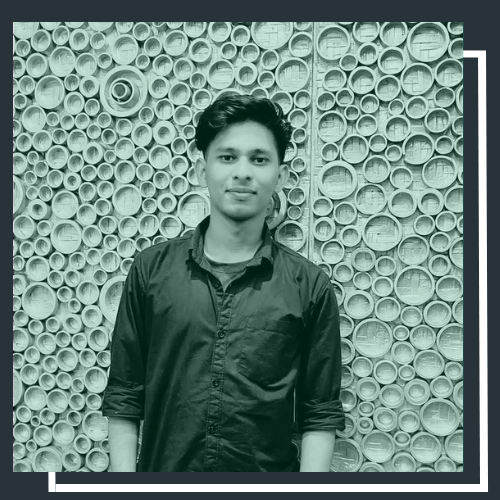
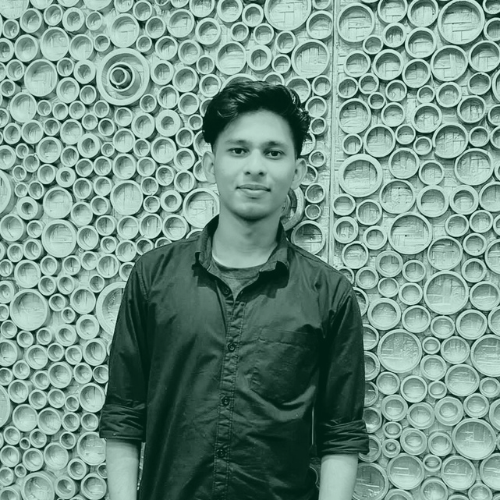
commit 2

diff --git a/home.html b/home.html
@@ -169,7 +169,7 @@
         </div>
       </nav>
       <div class="container my-5 p-5 intro-box fade-element">
-        <div class="container mt-5">
+        <div class="container mt-5 box">
           <p class="primary-text fs-5">Hi, my name is</p>
           <h1 class="name text-white">
             Rocktim Sharma<span class="primary-text fs-1 fw-bold">.</span>
@@ -207,30 +207,50 @@
         <hr class="seperator" />
       </div>
 
-      <div class="container my-2 about-me fade-element">
-        <div class="row">
-          <div class="col-sm-5 my-3">
-            <p class="fs-2 primary-text about-me-1 fw-bold heading">About me</p>
-            <img
+      <div class="container my-5  fade-element" id="about-me-sec">
+        <div class="row px-3">
+          <div class="col-sm-4 my-3">
+            <p class="fs-2 primary-text about-me-1 mb-5 heading">About me</p>
+            <div class="d-flex justify-content-center align-items-center">
+           <!--   <img
               src="./img/p1.png"
-              class="fade-element"
-              width="350"
-              height="350"
+              class="fade-element  mt-3 img"
+          
               alt="..."
-            />
+            />-->
+            <div class="img-box">
+              <div class="content">
+                <img
+                src="./img/p1.png"
+                class="fade-element img"
+            
+                alt="..."
+              />
+              </div>
+              <div class="border-box"></div>
+            </div>
+            
+            </div>
+         
           </div>
-          <div class="col-sm-7 my-3">
-            <p class="fs-2 primary-text about-me-2 fw-bold heading">About me</p>
-            <p class="secondary-text-light para">
-              Hello! My name is Rocktim Sharma. I'm in my first year of studies
-              towards a master's in Computer Application(MCA). My biggest
-              passion is learning about softwares and evolving technologies. I
-              was fascinated with computers , so I decided to study Computer
-              Science in college and I’am continuing in that direction. I enjoy
-              being challenged and engaging with projects that require me to
-              work outside my comfort and knowledge set,learning new languages
-              and development of techniques.
-            </p>
+          <div class="col-sm-8 my-3 ">
+         
+              <div class="d-flex justify-content-center">
+                <p class="fs-2 primary-text text-center about-me-2 fw-bold heading">About me</p>
+              </div>
+             
+              <p class="secondary-text-light para ">
+                Hello! My name is Rocktim Sharma. I'm in my first year of studies
+                towards a master's in Computer Application(MCA). My biggest
+                passion is learning about softwares and evolving technologies. I
+                was fascinated with computers , so I decided to study Computer
+                Science in college and I’am continuing in that direction. I enjoy
+                being challenged and engaging with projects that require me to
+                work outside my comfort and knowledge set,learning new languages
+                and development of techniques.
+              </p>
+       
+          
           </div>
         </div>
       </div>
@@ -238,7 +258,7 @@
         <hr class="seperator" />
       </div>
       <div class="container my-5 fade-element">
-        <div class="row">
+        <div class="row px-3">
           <div class="col-sm-7">
             <p class="fs-2 primary-text heading">Recent Work</p>
             <dl class="row">
@@ -286,14 +306,35 @@
             </dl>
           </div>
 
-          <div class="col-sm-5">
-            <img
-              src="./img/p1.png"
-              class="fade-element"
-              width="350"
-              height="350"
-              alt="..."
-            />
+          <div class="col-sm-5 d-flex justify-content-end align-items-center">
+            <div class="img-box">
+              <div class="content">
+                <div id="carouselExampleAutoplaying" class="carousel slide" data-bs-ride="carousel">
+                  <div class="carousel-inner">
+                    <div class="carousel-item active">
+                      <img src="./img/s1.png" class="d-block w-100" alt="...">
+                    </div>
+                    <div class="carousel-item">
+                      <img src="./img/s2.png" class="d-block w-100" alt="...">
+                    </div>
+                    <div class="carousel-item">
+                      <img src="./img/s3.png" class="d-block w-100" alt="...">
+                    </div>
+                  </div>
+                  <button class="carousel-control-prev" type="button" data-bs-target="#carouselExampleAutoplaying" data-bs-slide="prev">
+                    <span class="carousel-control-prev-icon" aria-hidden="true"></span>
+                    <span class="visually-hidden">Previous</span>
+                  </button>
+                  <button class="carousel-control-next" type="button" data-bs-target="#carouselExampleAutoplaying" data-bs-slide="next">
+                    <span class="carousel-control-next-icon" aria-hidden="true"></span>
+                    <span class="visually-hidden">Next</span>
+                  </button>
+                </div>
+               
+              </div>
+              <div class="border-box"></div>
+            </div>
+          
           </div>
         </div>
       </div>
@@ -301,9 +342,9 @@
         <hr class="seperator" />
       </div>
       <div class="container fade-element" id="contact-sec">
-        <div class="row">
+        <div class="row px-3">
           <div class="col-sm-6 d-flex align-items-center">
-            <div class="container">
+            <div class="">
               <p class="fs-1 mb-1 primary-text heading">Let's talk</p>
               <p class="fs-1 mb-1 primary-text">
                 <span class="heading">Tell me about your</span> <br /><span

diff --git a/css/style.css b/css/style.css
@@ -113,20 +113,7 @@ hr{
  }
 
 
-@media (min-width: 992px) {
- .custom-collapse{
-  display: block;
- }
- .custom-offcanvas{
-  display: none;
- }
 
- .nav-container{
-  padding-left: 20px;
-  padding-right: 20px;
-}
-
-}
 
 .navbar-toggler{
   border:none;
@@ -278,30 +265,7 @@ hr{
 
 }
 
-@media (max-width: 576px) {
-  .screen{
-    width: 80vw;
-    height: 38vh;
-  }
-  .intro-box{
-    margin-top: 0 !important;
-    padding: 20px !important;
-  }
-  .about-me-1{
-    display: inline;
-  }
 
-  .about-me-2{
-    display: none;
-  }
-  .about-me{
-       padding: 20px;
-  }
-
-  .floating-social{
-    display: none !important;
-  }
-}
 
 
 
@@ -438,6 +402,14 @@ hr{
   max-width: 30em;
 }
 
+.intro-box .box{
+  background-image: url('../img/intro-bg.png');
+  background-repeat: no-repeat;
+  background-position: right center;
+  background-size: contain;
+
+}
+
 .social a {
   color: #ffffff;
   font-size: larger;
@@ -493,6 +465,43 @@ hr{
   /* Customize button styles as needed */
 }
 
+
+.img{
+  width: 100%;
+  margin: auto;
+
+ 
+}
+
+
+
+.img-box {
+  position: relative;
+}
+
+.img-box .content {
+  position: relative;
+  z-index: 1;
+  background-color: #fff;
+  width: calc(100%-30px);
+  /* Other styles for the upper div */
+}
+
+.img-box .border-box {
+  position: absolute;
+
+  right: 0;
+  bottom: 0;
+  width: 100%;
+  height: 100%;
+  left: 10px;
+  top: 10px;
+  border: 3px solid #fff;
+}
+
+
+
+
 #contact-sec .form-control{
   background-color: #36454f;
   border-color: #4a5862;
@@ -521,4 +530,55 @@ hr{
   border-radius: 10px;
   width: fit-content;
 }
+
+
+
+/* Media */
+
+@media (max-width: 576px) {
+  .screen{
+    width: 80vw;
+    height: 38vh;
+  }
+  .intro-box{
+    margin-top: 0 !important;
+    padding: 20px !important;
+  }
+  .about-me-1{
+    display: inline;
+  }
+
+  .about-me-2{
+    display: none;
+  }
+  .about-me{
+       padding: 20px;
+  }
+
+  .floating-social{
+    display: none !important;
+  }
+
+  .intro-box .box{
+    background-image: none
+  
+  }
+  
+}
+
+
+@media (min-width: 992px) {
+  .custom-collapse{
+   display: block;
+  }
+  .custom-offcanvas{
+   display: none;
+  }
+ 
+  .nav-container{
+   padding-left: 20px;
+   padding-right: 20px;
+ }
+ 
+ }
 
